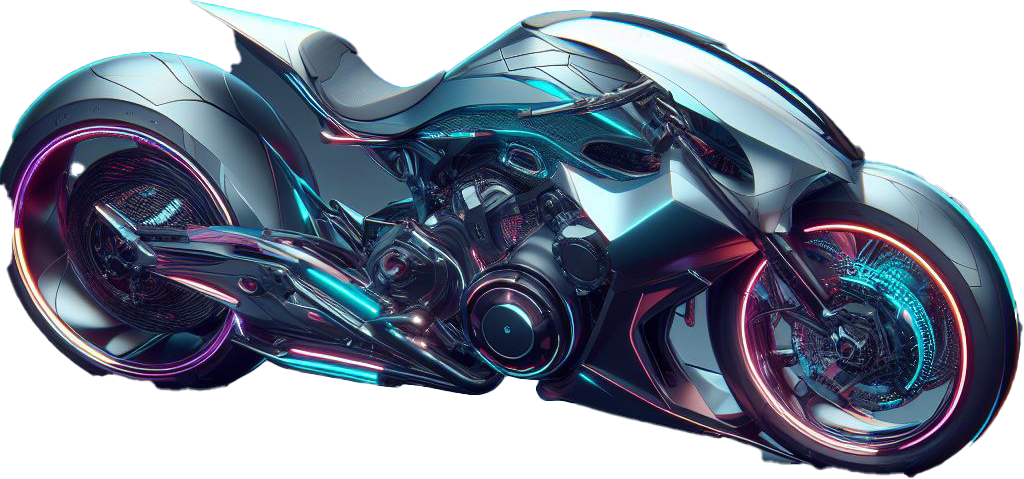
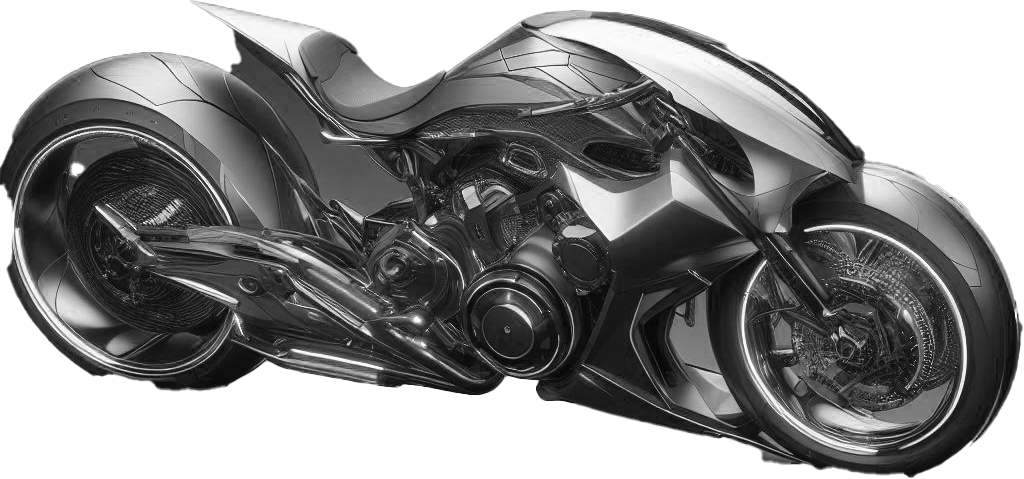
color done, but can't get user code

diff --git a/client copy.py b/client copy.py
@@ -156,22 +156,18 @@ def get_player_code(connection):
     Get the player code (A, B, C, or D) from the server.
 
     """
-    # Receive player code from server
-    player_code = connection.recv(1024).decode('utf-8')
-    while True:
-        if player_code == "Awaiting":
-            print("Waiting for server to assign player code.")
-            player_code = connection.recv(1024).decode('utf-8')
+    try:
+        # Receive player code from server
+        player_code = connection.recv(1024).decode('utf-8')
+
+        # Check if the player code is valid
+        if player_code in ['A', 'B', 'C', 'D']:
+            return player_code
         else:
-            break
-
-    print(player_code)
-
-    # Check if the player code is valid
-    if player_code in ['A', 'B', 'C', 'D']:
-        return player_code
-    else:
-        print(f"Unexpected player code received: {player_code}")
+            print(f"Unexpected player code received: {player_code}")
+            return None
+    except Exception as e:
+        print(f"Error while receiving player code: {e}")
         return None
 
 

diff --git a/server.py b/server.py
@@ -41,9 +41,11 @@ while True:
             assigned_code = random.choice(available_codes)
             allocated_codes.add(assigned_code)
             client_socket.sendall(assigned_code.encode('utf-8'))
-
-            # Wait for 2 seconds
-            time.sleep(2)
+            i = 0
+            while (i <10):
+                client_socket.sendall("waiting".encode('utf-8'))
+                time.sleep(1)
+                i = i+1
 
             # Send game start signal
             client_socket.sendall(GAME_START.encode('utf-8'))
